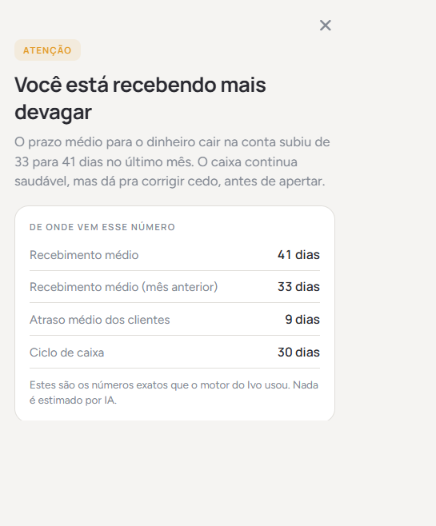
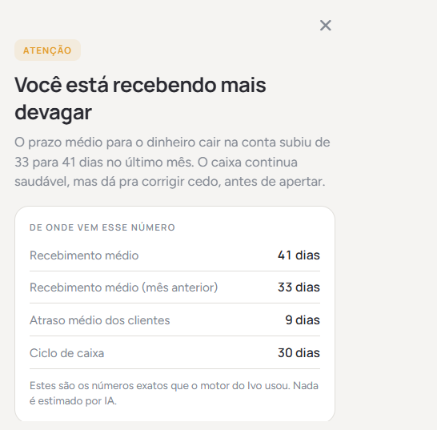
fix(site): recaptura as telas sem corte torto e sem o selo na capa
Dois retornos do Joao: as fotos ficaram tortas e o selo "DEMONSTRACAO - DADOS
FICTICIOS" nao devia aparecer na imagem da capa.

- O corte torto era estrutural: a moldura impunha `aspect-ratio` fixo e
  `object-fit: cover`, entao cada captura (de altura diferente) era recortada
  pelas beiradas. Agora a moldura NAO impoe proporcao: a altura vem da imagem
  (`height: auto`). Nao ha mais como cortar.
- Telas recapturadas com enquadramento fechado, cada uma terminando onde o
  conteudo termina: painel 437x422 (com a faixa de alerta e a barra de abas),
  alerta 437x430, Ivo IA 437x390 (agora com uma CONVERSA de verdade: a pergunta
  "Quando meu caixa zera?" e a resposta do Ivo, em vez do chat vazio) e escada
  437x490 (a escada inteira, do saldo de hoje ate a projecao de 30 dias).
- O selo de demonstracao foi escondido antes da captura do painel. A ressalva
  continua no site, na legenda embaixo da imagem ("com dados de demonstracao"),
  que e onde ela informa sem poluir a tela.

Conferido no navegador: capa e secao do produto, 4 imagens carregando, zero
recorte. Acentos conferidos apos cada reescrita (o gotcha do PS 5.1).

diff --git a/site/index.html b/site/index.html
@@ -213,9 +213,6 @@
   /* herói: a tela real do app numa moldura discreta */
   .hero-shot { margin: 0; display: flex; flex-direction: column; align-items: center; gap: 12px; animation: rise .8s .12s cubic-bezier(.2,.7,.2,1) both; }
   .hero-shot .phone { width: min(420px, 100%); flex: 0 0 auto; }
-  /* a captura do painel é mais curta (436×430): a moldura acompanha.
-     Especificidade maior que `.phone .screen`, que vem depois no arquivo. */
-  .hero-shot .phone .screen { aspect-ratio: 436 / 430; }
   .hero-shot-cap { font-family: var(--f-mono); font-size: .7rem; letter-spacing: .06em; color: var(--muted); }
   @media (max-width: 900px) { .hero-shot { align-items: flex-start; } }
 
@@ -450,9 +447,11 @@
     width: 300px; flex: 0 0 300px; border-radius: 16px; background: #FFFFFF; padding: 7px;
     border: 1px solid var(--line); position: relative;
   }
-  .phone .screen { border-radius: 10px; overflow: hidden; aspect-ratio: 436 / 526; position: relative; display: block; background: #F5F4F2; }
+  /* A moldura NÃO impõe proporção: ela se ajusta à altura da captura. Foi assim
+     que sumiu o recorte torto — cada tela tem a altura que tem. */
+  .phone .screen { border-radius: 10px; overflow: hidden; position: relative; display: block; background: #F5F4F2; }
     /* (o CSS das telas desenhadas a mao foi removido: agora sao capturas reais)
-  .phone .shot { display: block; width: 100%; height: 100%; object-fit: cover; object-position: top center; background: #F5F4F2; }
+  .phone .shot { display: block; width: 100%; height: auto; background: #F5F4F2; }
 
   /* ---------- Planos ---------- */
   .plans-grid { display: grid; grid-template-columns: repeat(3, 1fr); gap: 18px; margin-top: 2.8rem; max-width: 1040px; align-items: stretch; }
@@ -561,7 +560,7 @@
       <figure class="hero-shot">
         <div class="phone">
           <div class="screen">
-            <img class="shot" src="img/app-painel.png" width="436" height="430" fetchpriority="high" decoding="async"
+            <img class="shot" src="img/app-painel.png" width="437" height="422" fetchpriority="high" decoding="async"
                  alt="Painel do Ivo mostrando o caixa projetado para 30 dias, de onde vem o saldo e até quando o dinheiro dura." />
           </div>
         </div>
@@ -629,7 +628,7 @@
         <figure class="phone-fig">
           <div class="phone">
             <div class="screen">
-              <img class="shot" src="img/app-alerta.png" width="436" height="526" loading="lazy" decoding="async"
+              <img class="shot" src="img/app-alerta.png" width="437" height="430" loading="lazy" decoding="async"
                    alt="Tela do Ivo: aviso 'Você está recebendo mais devagar', com o quadro 'de onde vem esse número' listando recebimento médio, atraso dos clientes e ciclo de caixa." />
             </div>
           </div>
@@ -639,7 +638,7 @@
         <figure class="phone-fig">
           <div class="phone">
             <div class="screen">
-              <img class="shot" src="img/app-ia.png" width="436" height="526" loading="lazy" decoding="async"
+              <img class="shot" src="img/app-ia.png" width="437" height="390" loading="lazy" decoding="async"
                    alt="Tela do Ivo IA: perguntas como 'Quando meu caixa zera?', 'Quem me deve?' e 'Dá pra pagar as contas do mês?'." />
             </div>
           </div>
@@ -649,7 +648,7 @@
         <figure class="phone-fig">
           <div class="phone">
             <div class="screen">
-              <img class="shot" src="img/app-escada.png" width="436" height="526" loading="lazy" decoding="async"
+              <img class="shot" src="img/app-escada.png" width="437" height="490" loading="lazy" decoding="async"
                    alt="Tela do Ivo: 'De onde vem esse número' — o saldo de hoje, o que entra a receber, o que sai a pagar e o custo fixo, degrau por degrau." />
             </div>
           </div>
